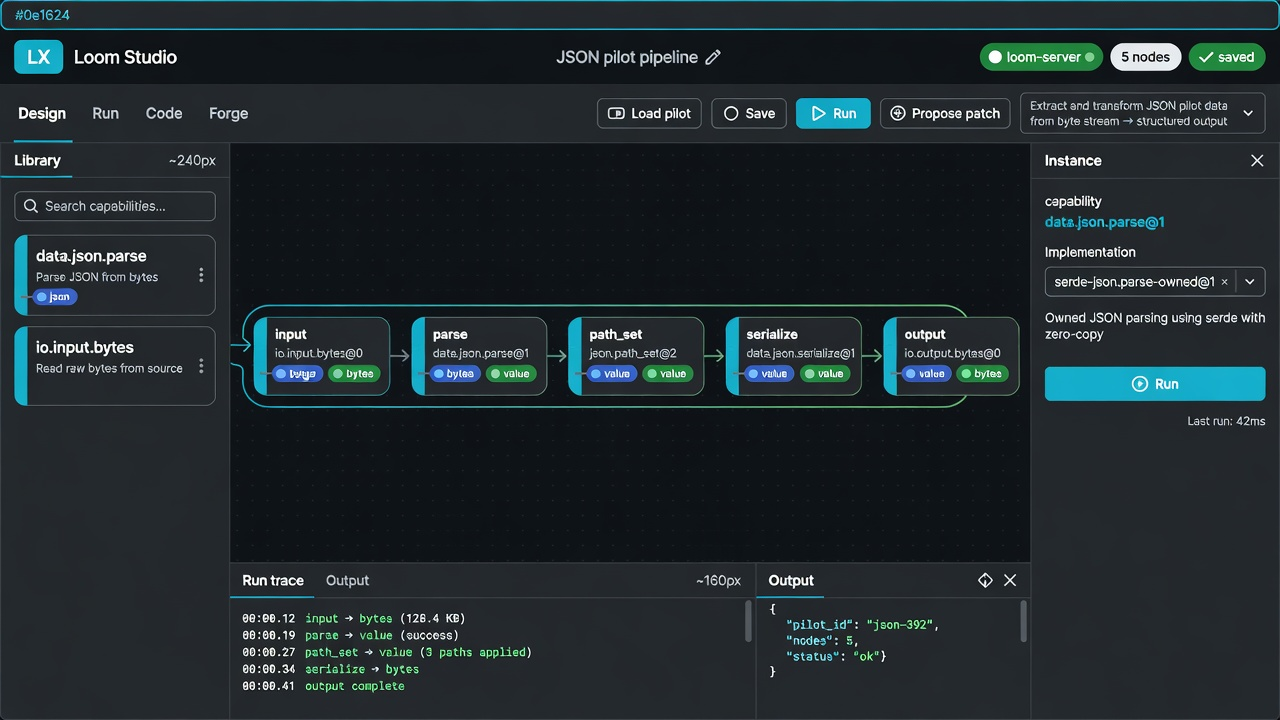
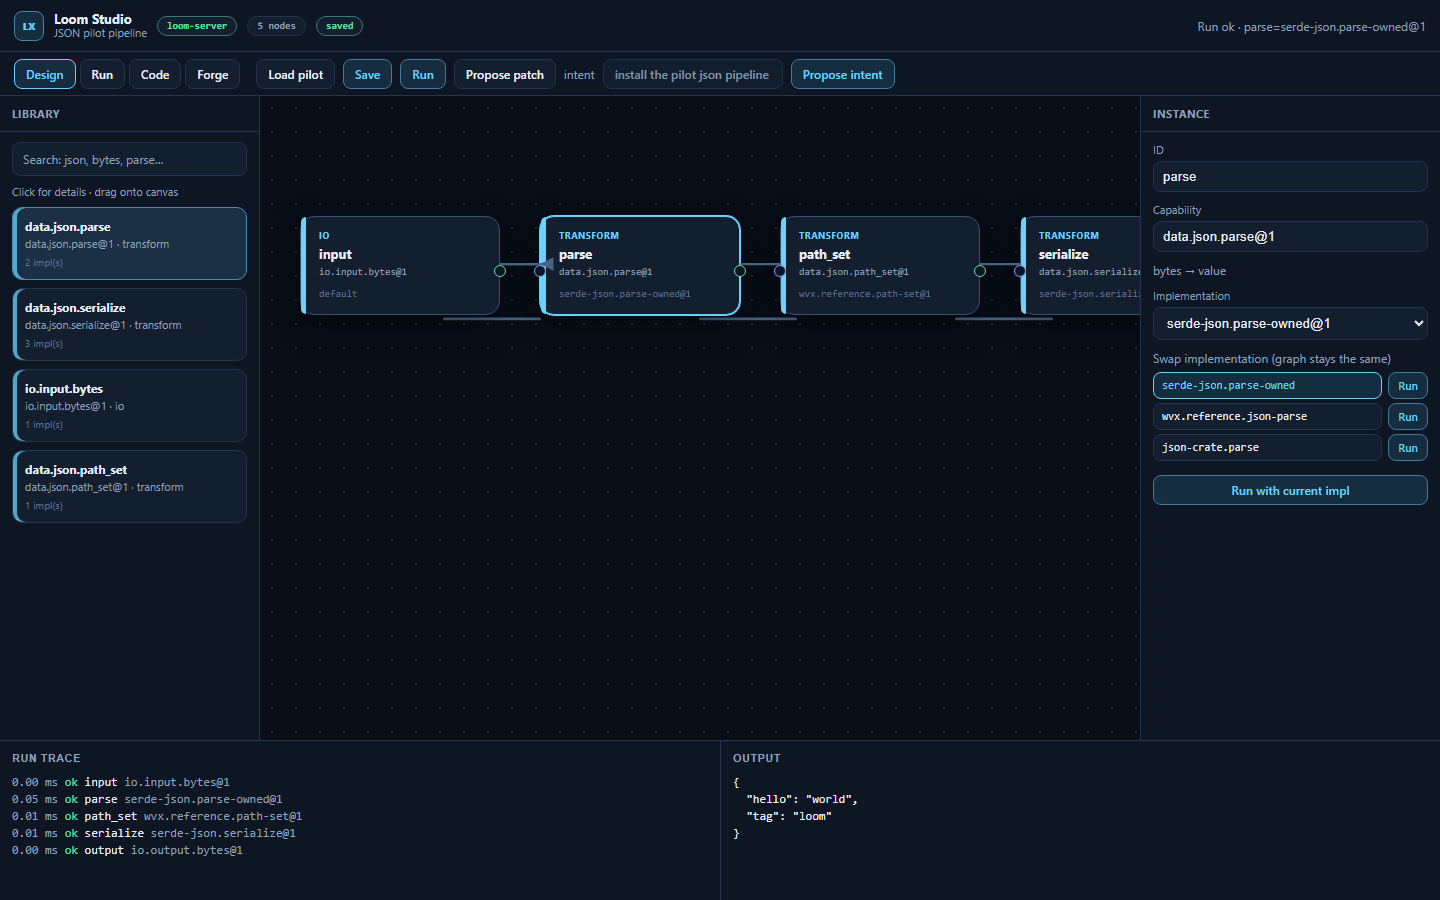
docs: refresh Studio screenshot and status for Forge/Gate F
Sync pilot fixture UI positions with wider layout, update README status
and studio-pilot.png to match loom-studio canvas spacing.

diff --git a/README.md b/README.md
@@ -9,8 +9,9 @@ can have one or more Rust implementations that share a contract, tests, and
 measured characteristics. Loom turns a typed graph of those capabilities into a
 normal, readable Rust workspace.
 
-> **Status:** public **v0.1 pilot** (JSON transform vertical). Core libs, CLI, MCP,
-> HTTP server, conformance/golden (Gates A/D), Forge static inventory, and Cortex
+> **Status:** public **v0.1 pilot** (JSON transform vertical) with **Gate F SDK path**
+> and **Forge v2 pilot** (AST extract, ontology match, compileable adapters, Gate C
+> harness). Core libs, CLI, MCP, HTTP, conformance (Gates A/D/E/F pilot), and Cortex
 > intent→GraphPatch live in this repo. The visual UI is the sibling
 > **[loom-studio](https://github.com/sergii-ziborov/loom-studio)**.
 
@@ -18,8 +19,9 @@ normal, readable Rust workspace.
 
 ![Loom Studio — JSON pilot pipeline](docs/images/studio-pilot.png)
 
-*Design canvas: library + typed graph, multi-impl swap with per-impl Run, run trace,
-and optional intent → GraphPatch. UI lives in [loom-studio](https://github.com/sergii-ziborov/loom-studio).*
+*Design canvas: library + typed graph (roomier auto-layout), multi-impl swap with
+per-impl Run, run trace, Forge (match / compile / Gate C), and optional intent →
+GraphPatch. UI lives in [loom-studio](https://github.com/sergii-ziborov/loom-studio).*
 
 ## Why
 
@@ -76,7 +78,7 @@ Studio UI lives in a separate repository and talks to the same command surface.
 | `wvx-adapters` | Pilot JSON implementations (parse / serialize / path_set) |
 | `wvx-component-sdk` | Gate F adapter ABI (plugin register + emit templates) |
 | `wvx-adapter-external-demo` | External fixture (`upper_parse`) — not in pilot match tables |
-| `wvx-forge` | Static crate inventory + public API extract |
+| `wvx-forge` | Inventory, AST extract, ontology match, compileable adapters, Gate C pilot |
 | `wvx-conformance` | Capability vectors (pos/neg error codes) + golden (dynamic ≡ export) |
 | `wvx-cortex` | Intent → GraphPatch (heuristics + optional xAI LLM; ops only) |
 | `loom-server` | Local HTTP API for Studio (`127.0.0.1:43917`) |
